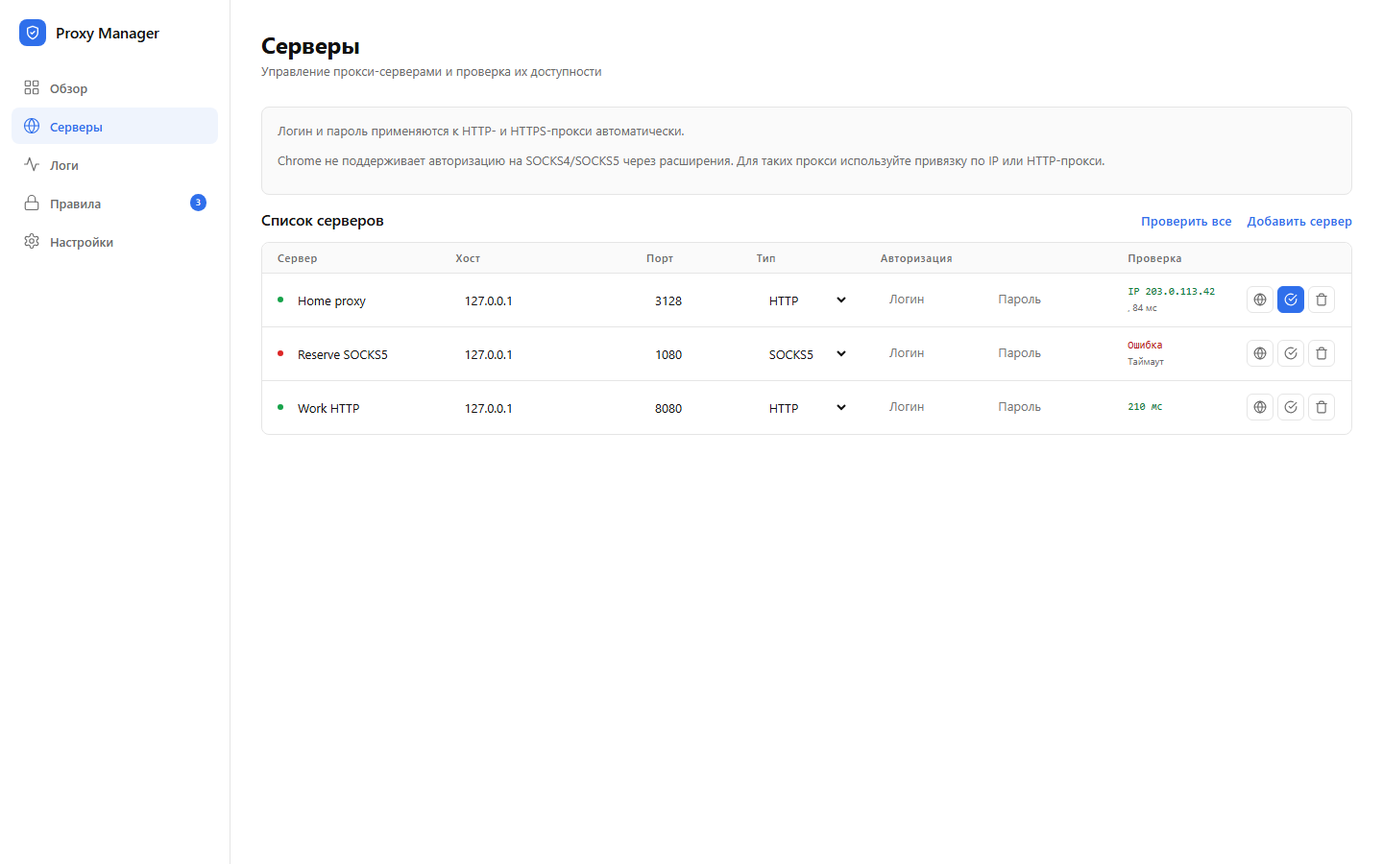
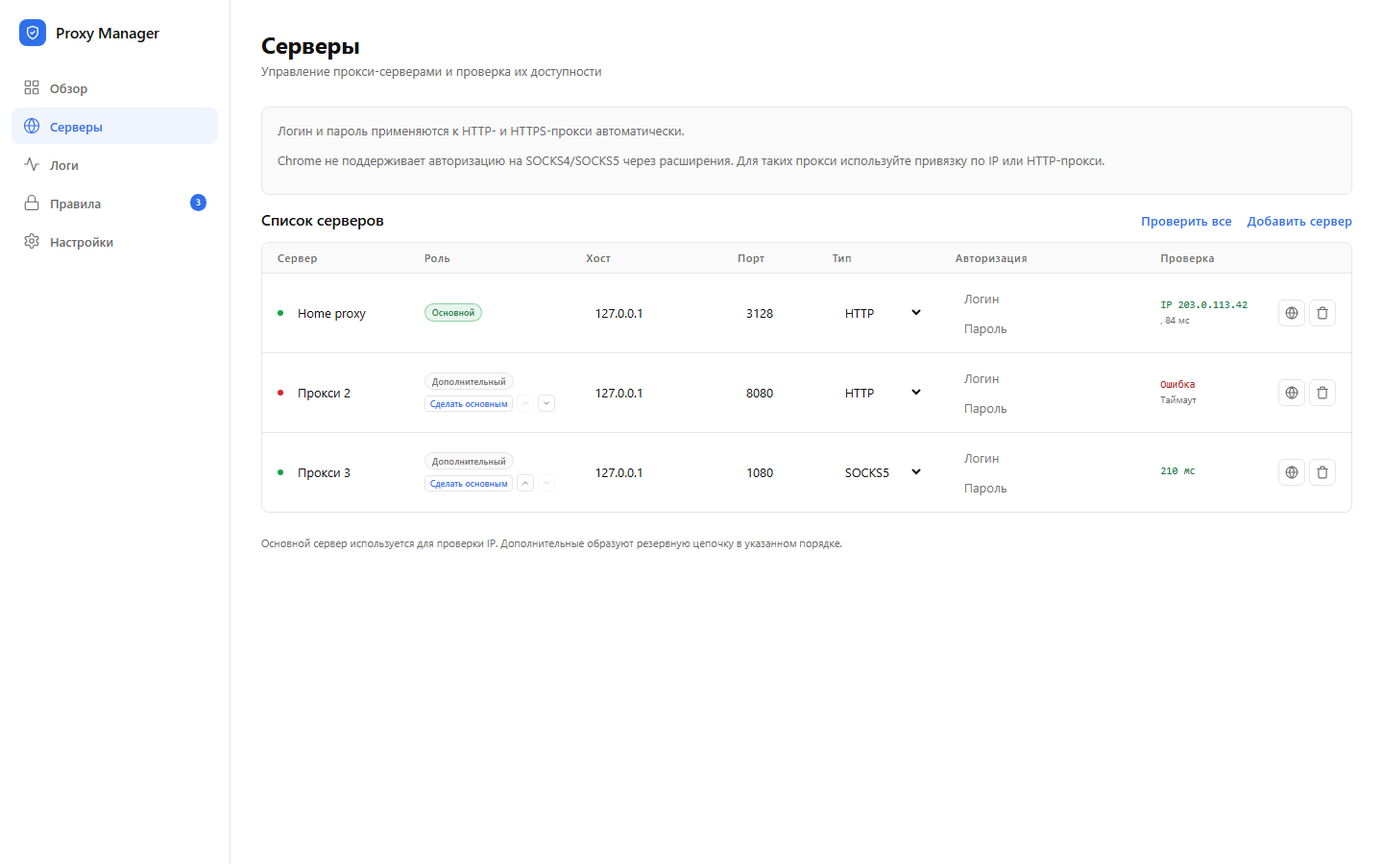
feat: choose primary proxy and clarify proxy errors
Add a role column with primary server selection and reserve ordering, reorder proxies on manual and automatic switches, and replace the technical badge wording with human-readable proxy error messages. Raw error codes stay in logs. Update tests, README and dashboard screenshots.

diff --git a/dashboard.js b/dashboard.js
@@ -243,10 +243,11 @@ function renderOverview() {
   $('dashMode').textContent = data.autoProxyEnabled ? 'Авто' : 'Список';
 
   const container = $('overviewServers');
+  const ordered = orderedProxies();
   if (data.proxies.length === 0) {
     container.innerHTML = '<div class="empty-state">Нет серверов. Добавьте первый прокси, чтобы включить маршрутизацию.</div>';
   } else {
-    container.innerHTML = data.proxies.map(proxy => {
+    container.innerHTML = ordered.map(proxy => {
       const isActive = sameProxyId(proxy.id, data.activeProxyId);
       const configured = isProxyConfigured(proxy);
       const reserve = configured && !isActive;
@@ -256,7 +257,7 @@ function renderOverview() {
           <div class="overview-server__name">${escapeHtml(proxy.name || 'Без имени')}</div>
           <div class="overview-server__meta">${escapeHtml(proxy.host || '—')}:${escapeHtml(proxy.port || '—')}, ${escapeHtml(displayProxyType(proxy.type))}${configured ? '' : ', не настроен'}</div>
         </div>
-        ${isActive ? '<span class="active-pill">Активен</span>' : reserve ? '<span class="reserve-pill">Резерв</span>' : ''}
+        ${isActive ? '<span class="active-pill">Основной</span>' : reserve ? '<span class="reserve-pill">Дополнительный</span>' : ''}
       </div>`;
     }).join('');
   }
@@ -341,9 +342,18 @@ function proxyDot(proxyId, isActive) {
     return '<span class="server-dot error" aria-hidden="true" title="Недоступен"></span>';
   }
   if (isActive) {
-    return '<span class="server-dot online" aria-hidden="true" title="Активный прокси"></span>';
+    return '<span class="server-dot online" aria-hidden="true" title="Основной прокси"></span>';
   }
-  return '<span class="server-dot offline" aria-hidden="true" title="Резервный прокси"></span>';
+  return '<span class="server-dot offline" aria-hidden="true" title="Дополнительный прокси"></span>';
+}
+
+function orderedProxies() {
+  const active = data.proxies.find(proxy => sameProxyId(proxy.id, data.activeProxyId));
+  if (!active) return data.proxies.slice();
+  return [
+    active,
+    ...data.proxies.filter(proxy => !sameProxyId(proxy.id, active.id))
+  ];
 }
 
 function renderServers() {
@@ -351,11 +361,12 @@ function renderServers() {
   if (!tbody) return;
 
   if (data.proxies.length === 0) {
-    tbody.innerHTML = '<tr><td colspan="7" class="logs-empty">Нет серверов</td></tr>';
+    tbody.innerHTML = '<tr><td colspan="8" class="logs-empty">Нет серверов</td></tr>';
     return;
   }
 
-  tbody.innerHTML = data.proxies.map(proxy => {
+  const ordered = orderedProxies();
+  tbody.innerHTML = ordered.map((proxy, index) => {
     const id = String(proxy.id);
     const isActive = sameProxyId(proxy.id, data.activeProxyId);
     const hostValid = !proxy.host || String(proxy.host).trim() === '' || isValidProxyHost(proxy.host);
@@ -364,6 +375,11 @@ function renderServers() {
     const type = normalizeProxyType(proxy.type) || 'SOCKS5';
     const typeValue = type === 'PROXY' ? 'PROXY' : type;
     const testResult = testResults.get(id) || proxyHealthTestResult(id);
+    const roleControls = isActive ? '' : `<div class="role-controls">
+      <button class="role-select" type="button" data-id="${escapeHtml(id)}" data-action="select" title="Сделать основным">Сделать основным</button>
+      <button class="role-move" type="button" data-id="${escapeHtml(id)}" data-action="up" title="Выше в резервной цепочке" aria-label="Поднять в резервной цепочке" ${index <= 1 ? 'disabled' : ''}><svg viewBox="0 0 24 24" aria-hidden="true"><polyline points="18 15 12 9 6 15"/></svg></button>
+      <button class="role-move" type="button" data-id="${escapeHtml(id)}" data-action="down" title="Ниже в резервной цепочке" aria-label="Опустить в резервной цепочке" ${index >= ordered.length - 1 ? 'disabled' : ''}><svg viewBox="0 0 24 24" aria-hidden="true"><polyline points="6 9 12 15 18 9"/></svg></button>
+    </div>`;
 
     return `<tr data-proxy-id="${escapeHtml(id)}">
       <td>
@@ -371,6 +387,10 @@ function renderServers() {
           ${proxyDot(id, isActive)}
           <input type="text" class="proxy-item__field" value="${escapeHtml(proxy.name || '')}" data-id="${escapeHtml(id)}" data-field="name" placeholder="Название" aria-label="Название сервера" style="max-width:140px;">
         </span>
+      </td>
+      <td class="server-role-cell">
+        <span class="role-pill ${isActive ? 'is-primary' : ''}">${isActive ? 'Основной' : 'Дополнительный'}</span>
+        ${roleControls}
       </td>
       <td><input type="text" class="proxy-item__field ${hostValid ? '' : 'invalid'}" value="${escapeHtml(proxy.host || '')}" data-id="${escapeHtml(id)}" data-field="host" placeholder="IP или hostname" aria-label="Хост прокси" aria-invalid="${hostValid ? 'false' : 'true'}"></td>
       <td><input type="number" class="proxy-item__field ${portValid ? '' : 'invalid'}" value="${escapeHtml(proxy.port || '')}" data-id="${escapeHtml(id)}" data-field="port" placeholder="Порт" aria-label="Порт прокси" aria-invalid="${portValid ? 'false' : 'true'}" min="1" max="65535" style="max-width:82px;"></td>
@@ -392,9 +412,6 @@ function renderServers() {
         <div class="server-actions">
           <button class="server-btn" type="button" title="Проверить прокси" aria-label="Проверить ${escapeHtml(proxy.name || proxy.host || 'прокси')}" data-id="${escapeHtml(id)}" data-action="test">
             <svg viewBox="0 0 24 24" aria-hidden="true"><circle cx="12" cy="12" r="10"/><path d="M2 12h20M12 2a15.3 15.3 0 0 1 4 10 15.3 15.3 0 0 1-4 10 15.3 15.3 0 0 1-4-10 15.3 15.3 0 0 1 4-10z"/></svg>
-          </button>
-          <button class="server-btn ${isActive ? 'connected' : ''}" type="button" title="${isActive ? 'Активен' : 'Выбрать активным'}" aria-label="${isActive ? 'Активный прокси' : 'Выбрать активным'}" data-id="${escapeHtml(id)}" data-action="select">
-            <svg viewBox="0 0 24 24" aria-hidden="true"><path d="M22 11.08V12a10 10 0 1 1-5.93-9.14"/><polyline points="22 4 12 14.01 9 11.01"/></svg>
           </button>
           <button class="server-btn is-danger" type="button" title="Удалить" aria-label="Удалить ${escapeHtml(proxy.name || proxy.host || 'прокси')}" data-id="${escapeHtml(id)}" data-action="delete">
             <svg viewBox="0 0 24 24" aria-hidden="true"><polyline points="3 6 5 6 21 6"/><path d="M19 6v14a2 2 0 0 1-2 2H7a2 2 0 0 1-2-2V6m3 0V4a2 2 0 0 1 2-2h4a2 2 0 0 1 2 2v2"/></svg>
@@ -473,6 +490,18 @@ async function runAllServerTests() {
   showToast('Все серверы проверены', 'success');
 }
 
+function moveProxy(proxyId, direction) {
+  const ordered = orderedProxies();
+  const index = ordered.findIndex(proxy => sameProxyId(proxy.id, proxyId));
+  if (index <= 0) return;
+
+  const target = direction === 'up' ? index - 1 : index + 1;
+  if (target <= 0 || target >= ordered.length) return;
+
+  [ordered[index], ordered[target]] = [ordered[target], ordered[index]];
+  chrome.storage.local.set({ proxies: ordered }, () => loadData());
+}
+
 function setupServerHandlers() {
   const tbody = $('serversTableBody');
   if (!tbody || tbody.dataset.handlersReady === '1') return;
@@ -530,13 +559,24 @@ function setupServerHandlers() {
   });
 
   tbody.addEventListener('click', (event) => {
-    const button = event.target.closest('.server-btn');
-    if (!button) return;
+    const button = event.target.closest('[data-action]');
+    if (!button || !tbody.contains(button)) return;
     const id = parseProxyId(button.dataset.id);
     const action = button.dataset.action;
 
+    if (action === 'up' || action === 'down') {
+      moveProxy(id, action);
+      return;
+    }
+
     if (action === 'select') {
-      chrome.storage.local.set({ activeProxyId: id }, () => {
+      const selected = findProxyById(data.proxies, id);
+      if (!selected) return;
+      const ordered = [
+        selected,
+        ...data.proxies.filter(proxy => !sameProxyId(proxy.id, id))
+      ];
+      chrome.storage.local.set({ activeProxyId: id, proxies: ordered }, () => {
         loadData(() => probeHealth());
       });
       return;
@@ -557,6 +597,9 @@ function setupServerHandlers() {
         if (sameProxyId(result.activeProxyId, id)) {
           const next = proxies.filter(isProxyConfigured)[0] || proxies[0];
           updates.activeProxyId = next ? next.id : null;
+          if (next) {
+            updates.proxies = [next, ...proxies.filter(p => !sameProxyId(p.id, next.id))];
+          }
         }
         chrome.storage.local.set(updates, () => loadData());
       });

diff --git a/background.js b/background.js
@@ -452,7 +452,7 @@ function showBadge(text, bgColor) {
  * Запоминает причину красного «!» рядом с иконкой и делает её
  * видимой в попапе, подсказке иконки и логах.
  */
-function setIssue(kind, message, proxyId) {
+function setIssue(kind, message, proxyId, detail) {
   const text = String(message || 'Ошибка прокси').slice(0, 300);
   const issueKey = `${kind}:${text}`;
 
@@ -464,6 +464,7 @@ function setIssue(kind, message, proxyId) {
     at: Date.now(),
     kind,
     message: text,
+    detail: detail ? String(detail).slice(0, 300) : '',
     proxyId: proxyId ? String(proxyId) : null
   };
   chrome.storage.local.set({ lastIssue });
@@ -473,12 +474,12 @@ function setIssue(kind, message, proxyId) {
 
 function proxyErrorText(message) {
   const raw = String(message || '');
-  if (/ERR_PROXY_CONNECTION_FAILED/.test(raw)) return 'Не удалось подключиться к прокси';
-  if (/ERR_TUNNEL_CONNECTION_FAILED/.test(raw)) return 'Прокси не установил туннель';
-  if (/ERR_SOCKS_CONNECTION/.test(raw)) return 'SOCKS-прокси не отвечает';
-  if (/ERR_PROXY_AUTH/.test(raw)) return 'Прокси требует авторизацию';
-  if (/ERR_PROXY_CERTIFICATE/.test(raw)) return 'Ошибка сертификата прокси';
-  return 'Ошибка прокси';
+  if (/ERR_PROXY_CONNECTION_FAILED/.test(raw)) return 'не принимает соединение';
+  if (/ERR_TUNNEL_CONNECTION_FAILED/.test(raw)) return 'не установил туннель';
+  if (/ERR_SOCKS_CONNECTION/.test(raw)) return 'не отвечает';
+  if (/ERR_PROXY_AUTH/.test(raw)) return 'требует авторизацию';
+  if (/ERR_PROXY_CERTIFICATE/.test(raw)) return 'отдаёт ошибку сертификата';
+  return 'недоступен';
 }
 
 // ===================== ОЧЕРЕДЬ ЗАПИСИ В STORAGE =====================
@@ -583,7 +584,11 @@ function recordProxyFailure(message, options) {
   lastProxyErrorLog = { message: rawMessage, at: now };
   chrome.storage.local.set({ lastProxyError });
   logRoute('ERROR', 'Proxy error', displayMessage);
-  setIssue('proxy', `${proxyErrorText(rawMessage)}: ${displayMessage}`, activeProxy ? activeProxy.id : null);
+  const label = activeProxy ? proxyLabel(activeProxy) : 'Прокси';
+  setIssue('proxy',
+    `${label} ${proxyErrorText(rawMessage)}. Проверьте адрес и порт или выберите другой сервер.`,
+    activeProxy ? activeProxy.id : null,
+    displayMessage);
 
   if (opts.rotate === false || !activeProxy) return;
   if (!isProxyConfigured(activeProxy)) return;
@@ -617,7 +622,10 @@ function switchToFallbackProxy(reason) {
   logRoute('AUTO', 'Proxy fallback',
     `${proxyLabel(proxies[currentIndex])} → ${proxyLabel(next)} (${reason})`);
 
-  chrome.storage.local.set({ activeProxyId: next.id }, () => {
+  chrome.storage.local.set({
+    activeProxyId: next.id,
+    proxies: [next, ...cachedConfig.proxies.filter(p => !sameProxyId(p.id, next.id))]
+  }, () => {
     setIssue('fallback',
       `Прокси ${proxyLabel(proxies[currentIndex])} не отвечает. Активный: ${proxyLabel(next)}`);
     if (Date.now() - lastFallbackNotifyAt > 5 * 60 * 1000) {
@@ -1233,7 +1241,10 @@ async function switchToHealthyProxy(current) {
 
     lastAutoSwitchAt = Date.now();
     await new Promise(resolve => {
-      chrome.storage.local.set({ activeProxyId: candidate.id }, resolve);
+      chrome.storage.local.set({
+        activeProxyId: candidate.id,
+        proxies: [candidate, ...cachedConfig.proxies.filter(p => !sameProxyId(p.id, candidate.id))]
+      }, resolve);
     });
 
     logRoute('AUTO', 'Proxy health',

diff --git a/styles.css b/styles.css
@@ -2279,3 +2279,74 @@ body.popup-body {
 
 .section-actions { display: flex; align-items: center; gap: 16px; }
 .server-test__detail { margin-top: 2px; }
+
+/* ============= SERVER ROLE ============= */
+.server-role-cell { min-width: 164px; }
+.role-pill {
+  display: inline-flex;
+  align-items: center;
+  padding: 3px 7px;
+  border: 1px solid var(--border);
+  border-radius: 999px;
+  background: var(--bg);
+  color: var(--muted);
+  font: 500 9px/1.2 var(--font-body);
+  letter-spacing: 0.02em;
+  white-space: nowrap;
+}
+.role-pill.is-primary {
+  border-color: color-mix(in oklab, var(--success), transparent 55%);
+  background: color-mix(in oklab, var(--success), transparent 90%);
+  color: var(--success-strong);
+}
+.role-controls {
+  display: flex;
+  align-items: center;
+  gap: 4px;
+  margin-top: 5px;
+}
+.role-select {
+  border: 1px solid var(--border);
+  border-radius: 4px;
+  background: var(--surface);
+  padding: 2px 5px;
+  color: var(--accent);
+  font: 500 9px/1.2 var(--font-body);
+  text-decoration: none;
+  white-space: nowrap;
+  cursor: pointer;
+}
+.role-select:hover {
+  border-color: var(--accent);
+  color: var(--accent);
+  opacity: 1;
+}
+.role-move {
+  width: 18px;
+  height: 18px;
+  padding: 0;
+  border: 1px solid var(--border);
+  border-radius: 4px;
+  background: var(--surface);
+  color: var(--muted);
+  font: 500 10px/1 var(--font-body);
+  cursor: pointer;
+}
+.role-move:hover:not(:disabled) { color: var(--fg); border-color: var(--muted); }
+.role-move:disabled { opacity: 0.3; cursor: default; }
+.server-hint {
+  margin-top: 10px;
+  font: 400 11px/1.4 var(--font-body);
+  color: var(--muted);
+}
+.role-move svg {
+  width: 10px;
+  height: 10px;
+  fill: none;
+  stroke: currentColor;
+  stroke-width: 2;
+  stroke-linecap: round;
+  stroke-linejoin: round;
+  display: block;
+  margin: 0 auto;
+}

diff --git a/popup.js b/popup.js
@@ -31,10 +31,10 @@ const POWER_STATES = {
 };
 
 const ISSUE_TITLES = {
-  proxy: 'Красный значок: ошибка прокси',
-  fallback: 'Красный значок: переключение прокси',
-  auth: 'Красный значок: нужна авторизация',
-  config: 'Красный значок: настройки не применились'
+  proxy: 'Прокси не отвечает',
+  fallback: 'Прокси переключён',
+  auth: 'Нужна авторизация',
+  config: 'Настройки не применились'
 };
 
 // ============= ДАННЫЕ =============
@@ -104,7 +104,7 @@ function renderIssue() {
     return;
   }
 
-  setText('issueTitle', ISSUE_TITLES[issue.kind] || 'Красный значок: ошибка');
+  setText('issueTitle', ISSUE_TITLES[issue.kind] || 'Ошибка прокси');
   setText('issueText', issue.message);
   banner.hidden = false;
 }

diff --git a/dashboard.html b/dashboard.html
@@ -128,6 +128,7 @@
           <thead>
             <tr>
               <th scope="col">Сервер</th>
+              <th scope="col">Роль</th>
               <th scope="col">Хост</th>
               <th scope="col">Порт</th>
               <th scope="col">Тип</th>
@@ -139,6 +140,7 @@
           <tbody id="serversTableBody"></tbody>
         </table>
       </div>
+      <p class="server-hint">Основной сервер используется для проверки IP. Дополнительные образуют резервную цепочку в указанном порядке.</p>
     </div>
 
     <!-- ===== Activity ===== -->

diff --git a/README.md b/README.md
@@ -14,14 +14,14 @@ Chrome-расширение для выборочной маршрутизаци
 - **Проверка прокси** — внешний IP, задержка и понятные состояния: работает, не отвечает, прокси не выбран, выключено.
 - **Режимы работы** — компактный переключатель **Авто / Ручной** в шапке попапа.
 - **Два списка правил** — «Через прокси» и «Напрямую», второй имеет приоритет.
-- **Несколько прокси-серверов** — активный сервер, резервная цепочка fallback и фоновая проверка здоровья. Если активный не отвечает, расширение проверяет резервы быстрым пингом и переключается на рабочий.
+- **Несколько прокси-серверов** — основной сервер, резервная цепочка и фоновая проверка здоровья. Основной выбирается в колонке «Роль», резервы можно менять местами. Если основной не отвечает, расширение проверяет резервы быстрым пингом и переключается на рабочий.
 - **Быстрый пинг** — успешная проверка обычно занимает доли секунды, таймаут — 2 секунды на попытку; кнопка «Проверить все» прогоняет серверы по очереди, а статусы и задержка видны прямо в таблице.
 - **Авторизация HTTP/HTTPS-прокси** — логин и пароль подставляются автоматически. Для SOCKS4/SOCKS5 Chrome не поддерживает авторизацию, расширение предупреждает об этом.
 - **Авто-прокси** — добавление недоступных сайтов в прокси по ошибкам загрузки или таймауту.
 - **Kill Switch** — блокировка трафика при обрыве соединения с прокси.
 - **Защита WebRTC** — предотвращение утечки реального IP.
 - **Панель управления** — обзор, серверы с проверкой IP, правила, логи и настройки.
-- **Понятные ошибки** — красный «!» на иконке хранит причину: она видна в подсказке иконки, в попапе и в логах. Уведомление по клику открывает журнал.
+- **Понятные ошибки** — если прокси не отвечает, в попапе видна причина, а подробности пишутся в логи. Уведомление по клику открывает журнал.
 - **Настройки** — сводка состояния, таймаут слайдером, защита WebRTC, Kill Switch, импорт/экспорт и сброс статистики.
 
 ## Скриншоты
@@ -99,9 +99,10 @@ SOCKS5 127.0.0.1:1080; SOCKS5 192.168.1.2:1080; DIRECT
 
 ## Несколько серверов и переключение
 
-- Для доменов из списка «Через прокси» PAC возвращает цепочку: активный сервер → остальные настроенные серверы → `DIRECT`. Поэтому браузер начинает использовать резерв сразу, не дожидаясь фоновой проверки.
-- Раз в минуту расширение проверяет активный сервер. Если он не ответил дважды подряд, резервы проверяются быстрым 204-пингом и активным становится первый доступный.
-- Если не отвечает ни один сервер, в попапе и логах появляется причина, а красный `!` остаётся на иконке.
+- Для доменов из списка «Через прокси» PAC возвращает цепочку: основной сервер → дополнительные в указанном порядке → `DIRECT`. Поэтому браузер начинает использовать резерв сразу, не дожидаясь фоновой проверки.
+- Основной сервер выбирается кнопкой «Сделать основным» в колонке «Роль». Дополнительные можно поднимать и опускать стрелками — от этого зависит порядок резервной цепочки.
+- Раз в минуту расширение проверяет основной сервер. Если он не ответил дважды подряд, резервы проверяются быстрым 204-пингом и основным становится первый доступный.
+- Если не отвечает ни один сервер, в попапе и логах появляется причина.
 - Статусы серверов и последняя задержка видны в таблице. Кнопка «Проверить все» проходит серверы по очереди и обновляет их статусы.
 
 ## Домены открытой страницы
